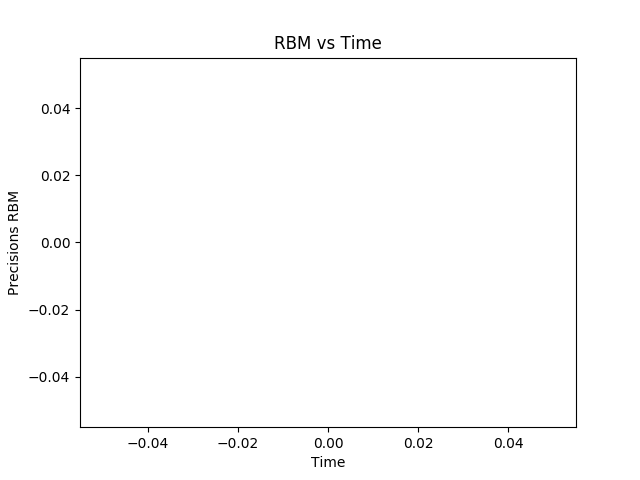
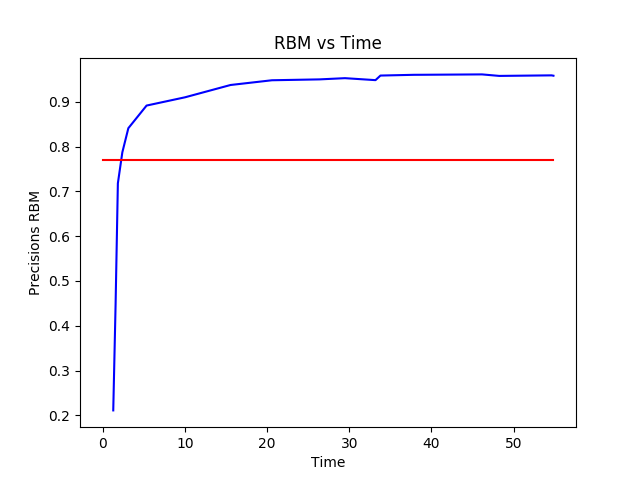
Final ex3a

diff --git a/ex3a.py b/ex3a.py
@@ -85,24 +85,9 @@ def training(n, classify):
     # Training RBM-Logistic Pipeline
     first = time.clock()
     classify.fit(X_train, Y_train)
-    time_each_training.append(abs(time.clock() - first))
+    time_each_training.append(time.clock() - first)
     # Save features
     pickle.dump(classify, open(filename, 'wb'))
-    # Training Logistic regression
-    logistic_classifier = linear_model.LogisticRegression(C=100.0)
-    logistic_classifier.fit(X_train, Y_train)
-    precisions_RBM.append(precision_score(Y_test, classify.predict(X_test), average='macro'))
-    #  ----------------------------- Plotting -------------------------------
-    plt.figure(figsize=(4.2, 4))
-    for i, comp in enumerate(rbm.components_):
-        plt.subplot(n, n, i + 1)
-        plt.imshow(comp.reshape((8, 8)), cmap=plt.cm.gray_r,
-                   interpolation='nearest')
-        plt.xticks(())
-        plt.yticks(())
-    plt.suptitle(str(n**2) + ' components extracted by RBM', fontsize=16)
-    plt.subplots_adjust(0.08, 0.02, 0.92, 0.85, 0.08, 0.23)
-    plt.savefig(path.join("plots/", "{0}_components.png".format(n**2)))
 
     # Training Logistic regression
     logistic_classifier = linear_model.LogisticRegression(C=100.0)
@@ -124,14 +109,22 @@ def training(n, classify):
 ran = range(2, 21)
 for i in ran:
     training(i, classifier)
-plt.plot(time_each_training, precisions_RBM, 'b', [2, 400], [0.77, 0.77], 'r')
+
+pickle.dump(time_each_training, open("trained/time_array.sav", 'wb'))
+pickle.dump(precisions_RBM, open("trained/precisions_RBM_array.sav", 'wb'))
+
+# time_each_training = pickle.load(open("trained/time_array.sav", 'rb'))
+# precisions_RBM = pickle.load(open("trained/precisions_RBM_array.sav", 'rb'))
+
+plt.plot(time_each_training, precisions_RBM, 'b', [0,time_each_training[len(time_each_training)-1]], [0.77, 0.77], 'r')
 plt.title("RBM vs Time")
 plt.xlabel("Time")
 plt.ylabel("Precisions RBM")
 plt.savefig(path.join("plots/", "RBM vs Time.png"))
+plt.close()
 
 ran = [i**2 for i in ran]
-plt.plot(time_each_training, ran, 'b.-')
+plt.plot(time_each_training, ran, 'b')
 plt.title("Number of Precisions vs Time")
 plt.xlabel("Time")
 plt.ylabel("Number of Precisions")
